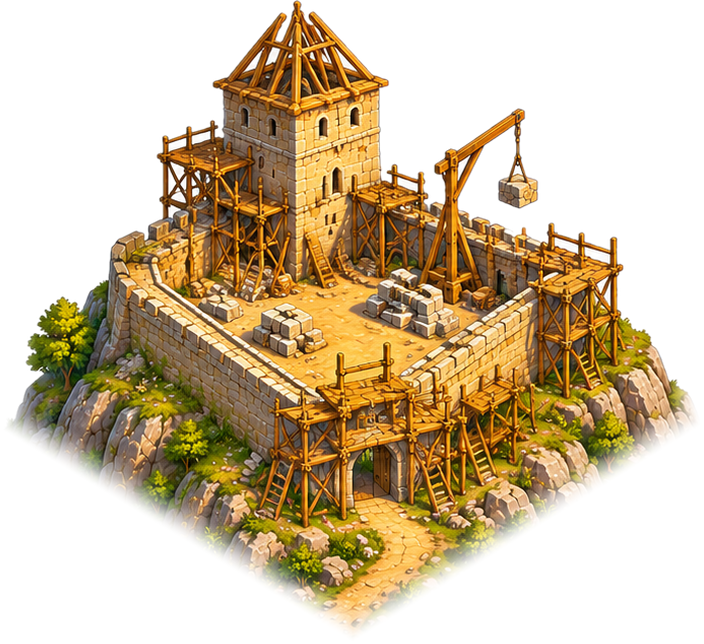
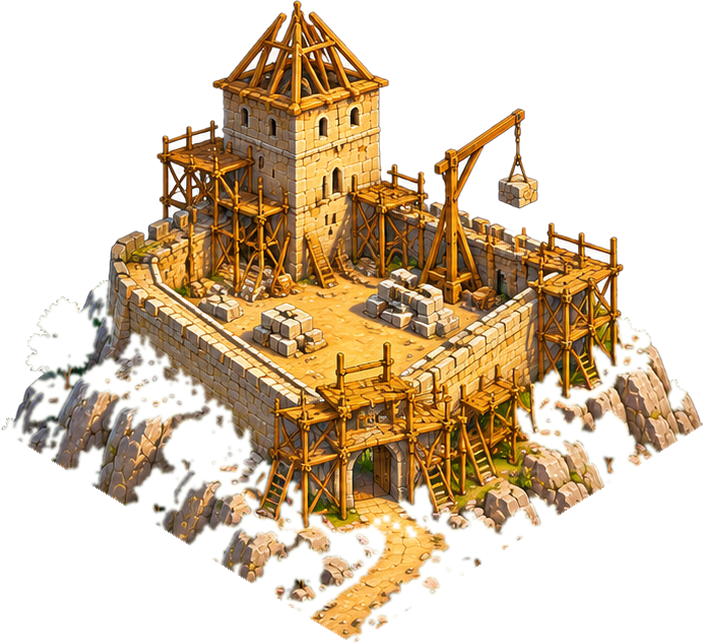
Épületek talapzata: a füves lap pontosan kivágva, nincs elmosott szellemkép
Claude-Session: https://claude.ai/code/session_01TrxMZhgVc5kkxwtpbvR8se

Changed region(s): [[0.0, 0.4348, 1.0, 1.0]]

diff --git a/e05.html b/e05.html
@@ -3745,7 +3745,7 @@ function klapka() {
 
 // ---------- a kiskirályok várai ----------
 const KING_FLAG = new Image(); KING_FLAG.src = 'img/e05_mg_zaszlo.png';
-const KING_SH = new Image(); KING_SH.src = 'img/e05_var_kiraly.png?v=2611211'; const KING_IX = { csak: 0, aba: 1, koszegi: 2 }, KING_CV = {};
+const KING_SH = new Image(); KING_SH.src = 'img/e05_var_kiraly.png?v=2611231'; const KING_IX = { csak: 0, aba: 1, koszegi: 2 }, KING_CV = {};
 function kingImg(id) { if (KING_CV[id]) return KING_CV[id]; if (!KING_SH.complete || !KING_SH.naturalWidth) return null; const w = KING_SH.naturalWidth / 3, h = KING_SH.naturalHeight, c = document.createElement('canvas'); c.width = w; c.height = h; c.getContext('2d').drawImage(KING_SH, KING_IX[id] * w, 0, w, h, 0, 0, w, h); return (KING_CV[id] = c); }
 const BAR_IMG = {}; ['csak', 'aba', 'koszegi', 'rom', 'rom_csak', 'rom_aba', 'rom_koszegi'].forEach(k => { const im = new Image(); im.src = 'img/e05_var_' + k + '.png'; BAR_IMG[k] = im; });
 // a várak leomlása Rozgony után: sorban, rázkódással, porfelhővel

diff --git a/sw.js b/sw.js
@@ -1,5 +1,5 @@
 // HazaVár: az oldalak mindig a legfrissebb változatból jönnek, a képek a telefonon maradnak, így gyorsan indul és net nélkül is megnyílik
-const PAGES = 'hazavar-pages-v2', IMGS = 'hazavar-img-v4';
+const PAGES = 'hazavar-pages-v2', IMGS = 'hazavar-img-v5';
 self.addEventListener('install', e => self.skipWaiting());
 self.addEventListener('activate', e => e.waitUntil(
   caches.keys().then(ks => Promise.all(ks.filter(k => k.startsWith('hazavar-') && k !== PAGES && k !== IMGS).map(k => caches.delete(k)))).then(() => self.clients.claim())
